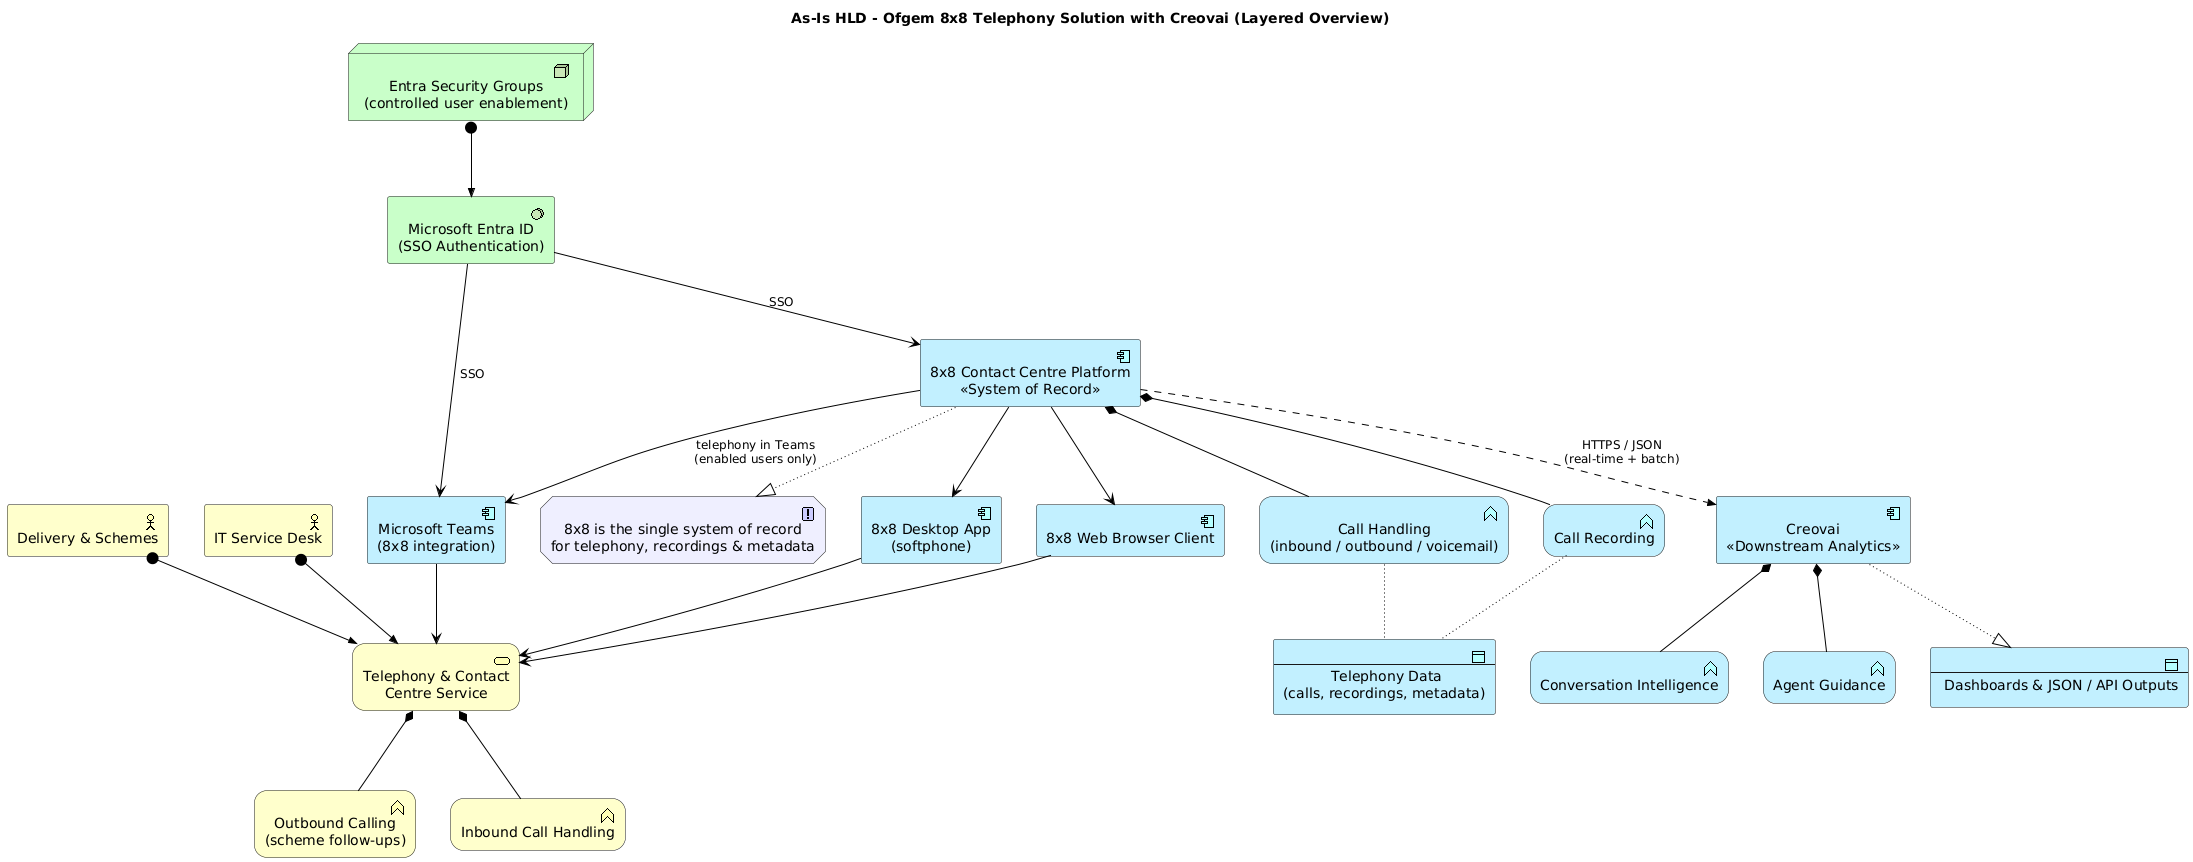
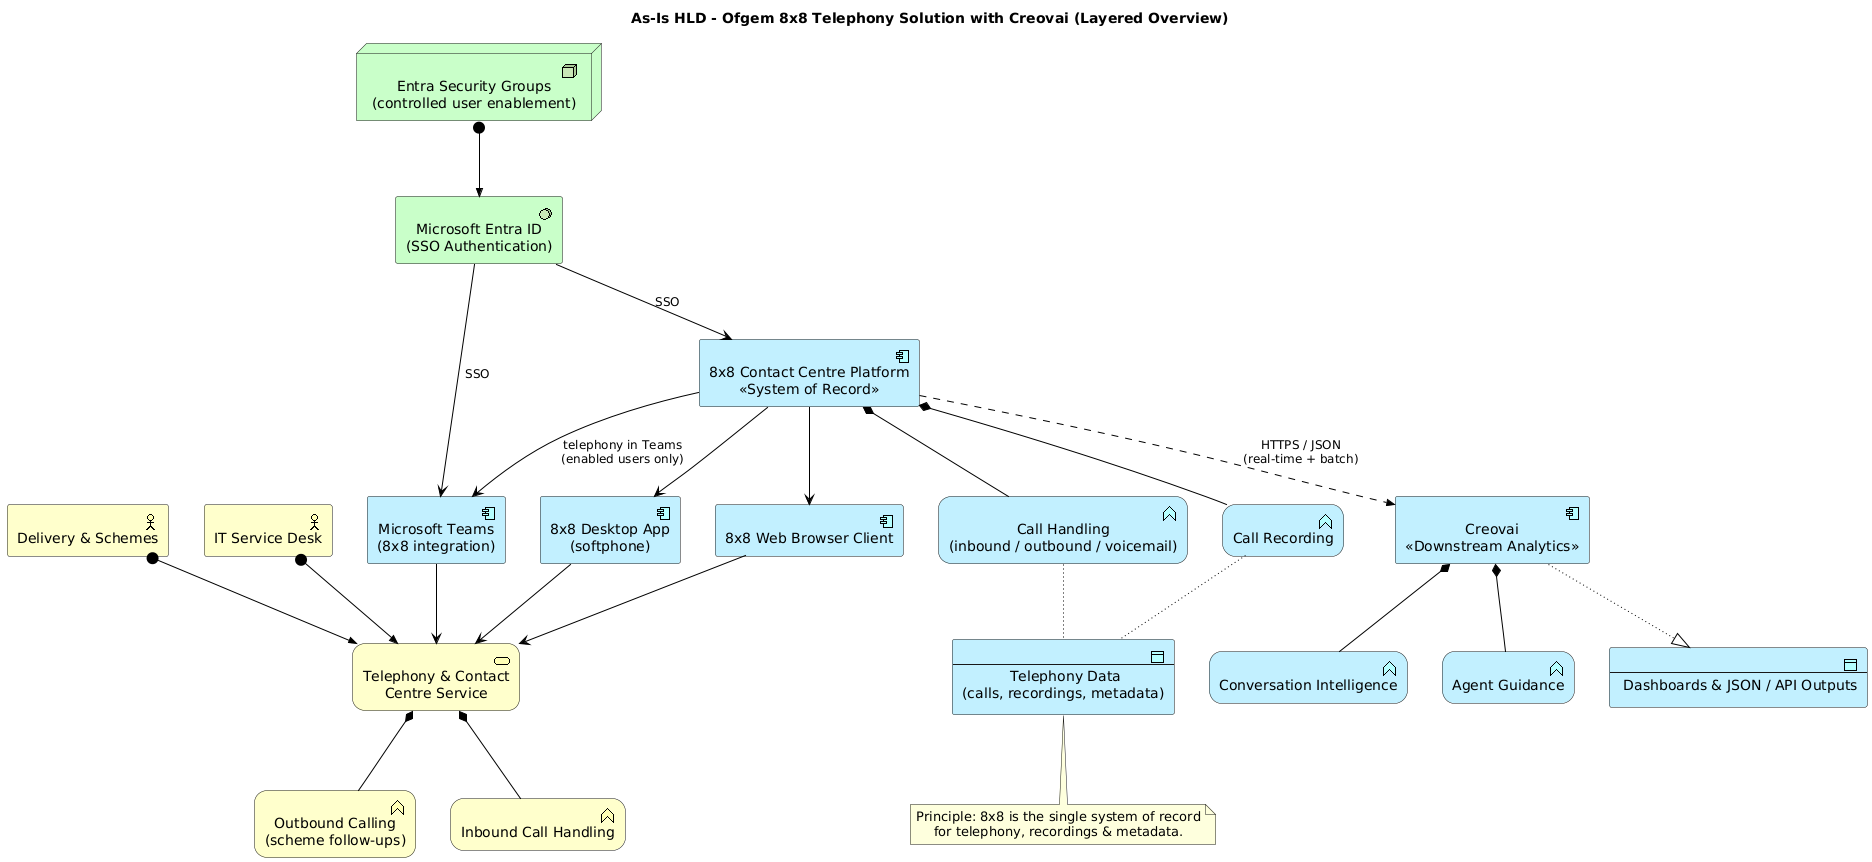
Restrict ArchiMate model to Business/Application/Technology layers
Use the standard ArchiMate palette only (business=yellow, application=
blue, technology=green). Remove the Motivation-layer principle element
from the layered overview and represent the guiding principle as a
neutral annotation instead.

https://claude.ai/code/session_01C2bfhs5gRm7LvZCm4sYJ8a

diff --git a/docs/architecture/Ofgem-8x8-Creovai-AsIs-HLD.md b/docs/architecture/Ofgem-8x8-Creovai-AsIs-HLD.md
@@ -152,6 +152,18 @@ These constraints are the rationale for any future To-Be work:
 
 - Notation: **ArchiMate 3.x**, authored as **PlantUML** (`!include <archimate/Archimate>`)
   so the views are text-based and version-controlled.
+- **Layers & palette:** the model is restricted to the three core ArchiMate layers,
+  using the standard palette colours:
+
+  | Layer | Colour | Elements in this model |
+  |-------|--------|------------------------|
+  | **Business** | Yellow | Delivery & Schemes, IT Service Desk (actors); Telephony & Contact Centre Service; Inbound/Outbound Calling (functions) |
+  | **Application** | Blue | 8x8 Contact Centre Platform; 8x8 Desktop App, Web client, Teams integration; Call Handling, Call Recording; Telephony Data; Creovai, Conversation Intelligence, Agent Guidance, Dashboards/API Outputs |
+  | **Technology** | Green | Microsoft Entra ID (SSO); Entra Security Groups |
+
+  No Motivation, Strategy, Implementation or Physical elements are used — the single
+  guiding principle (8x8 = system of record) is shown as a neutral annotation rather
+  than as a Motivation-layer element.
 - Diagrams render with PlantUML + Graphviz. To regenerate the PNGs:
 
   ```bash
